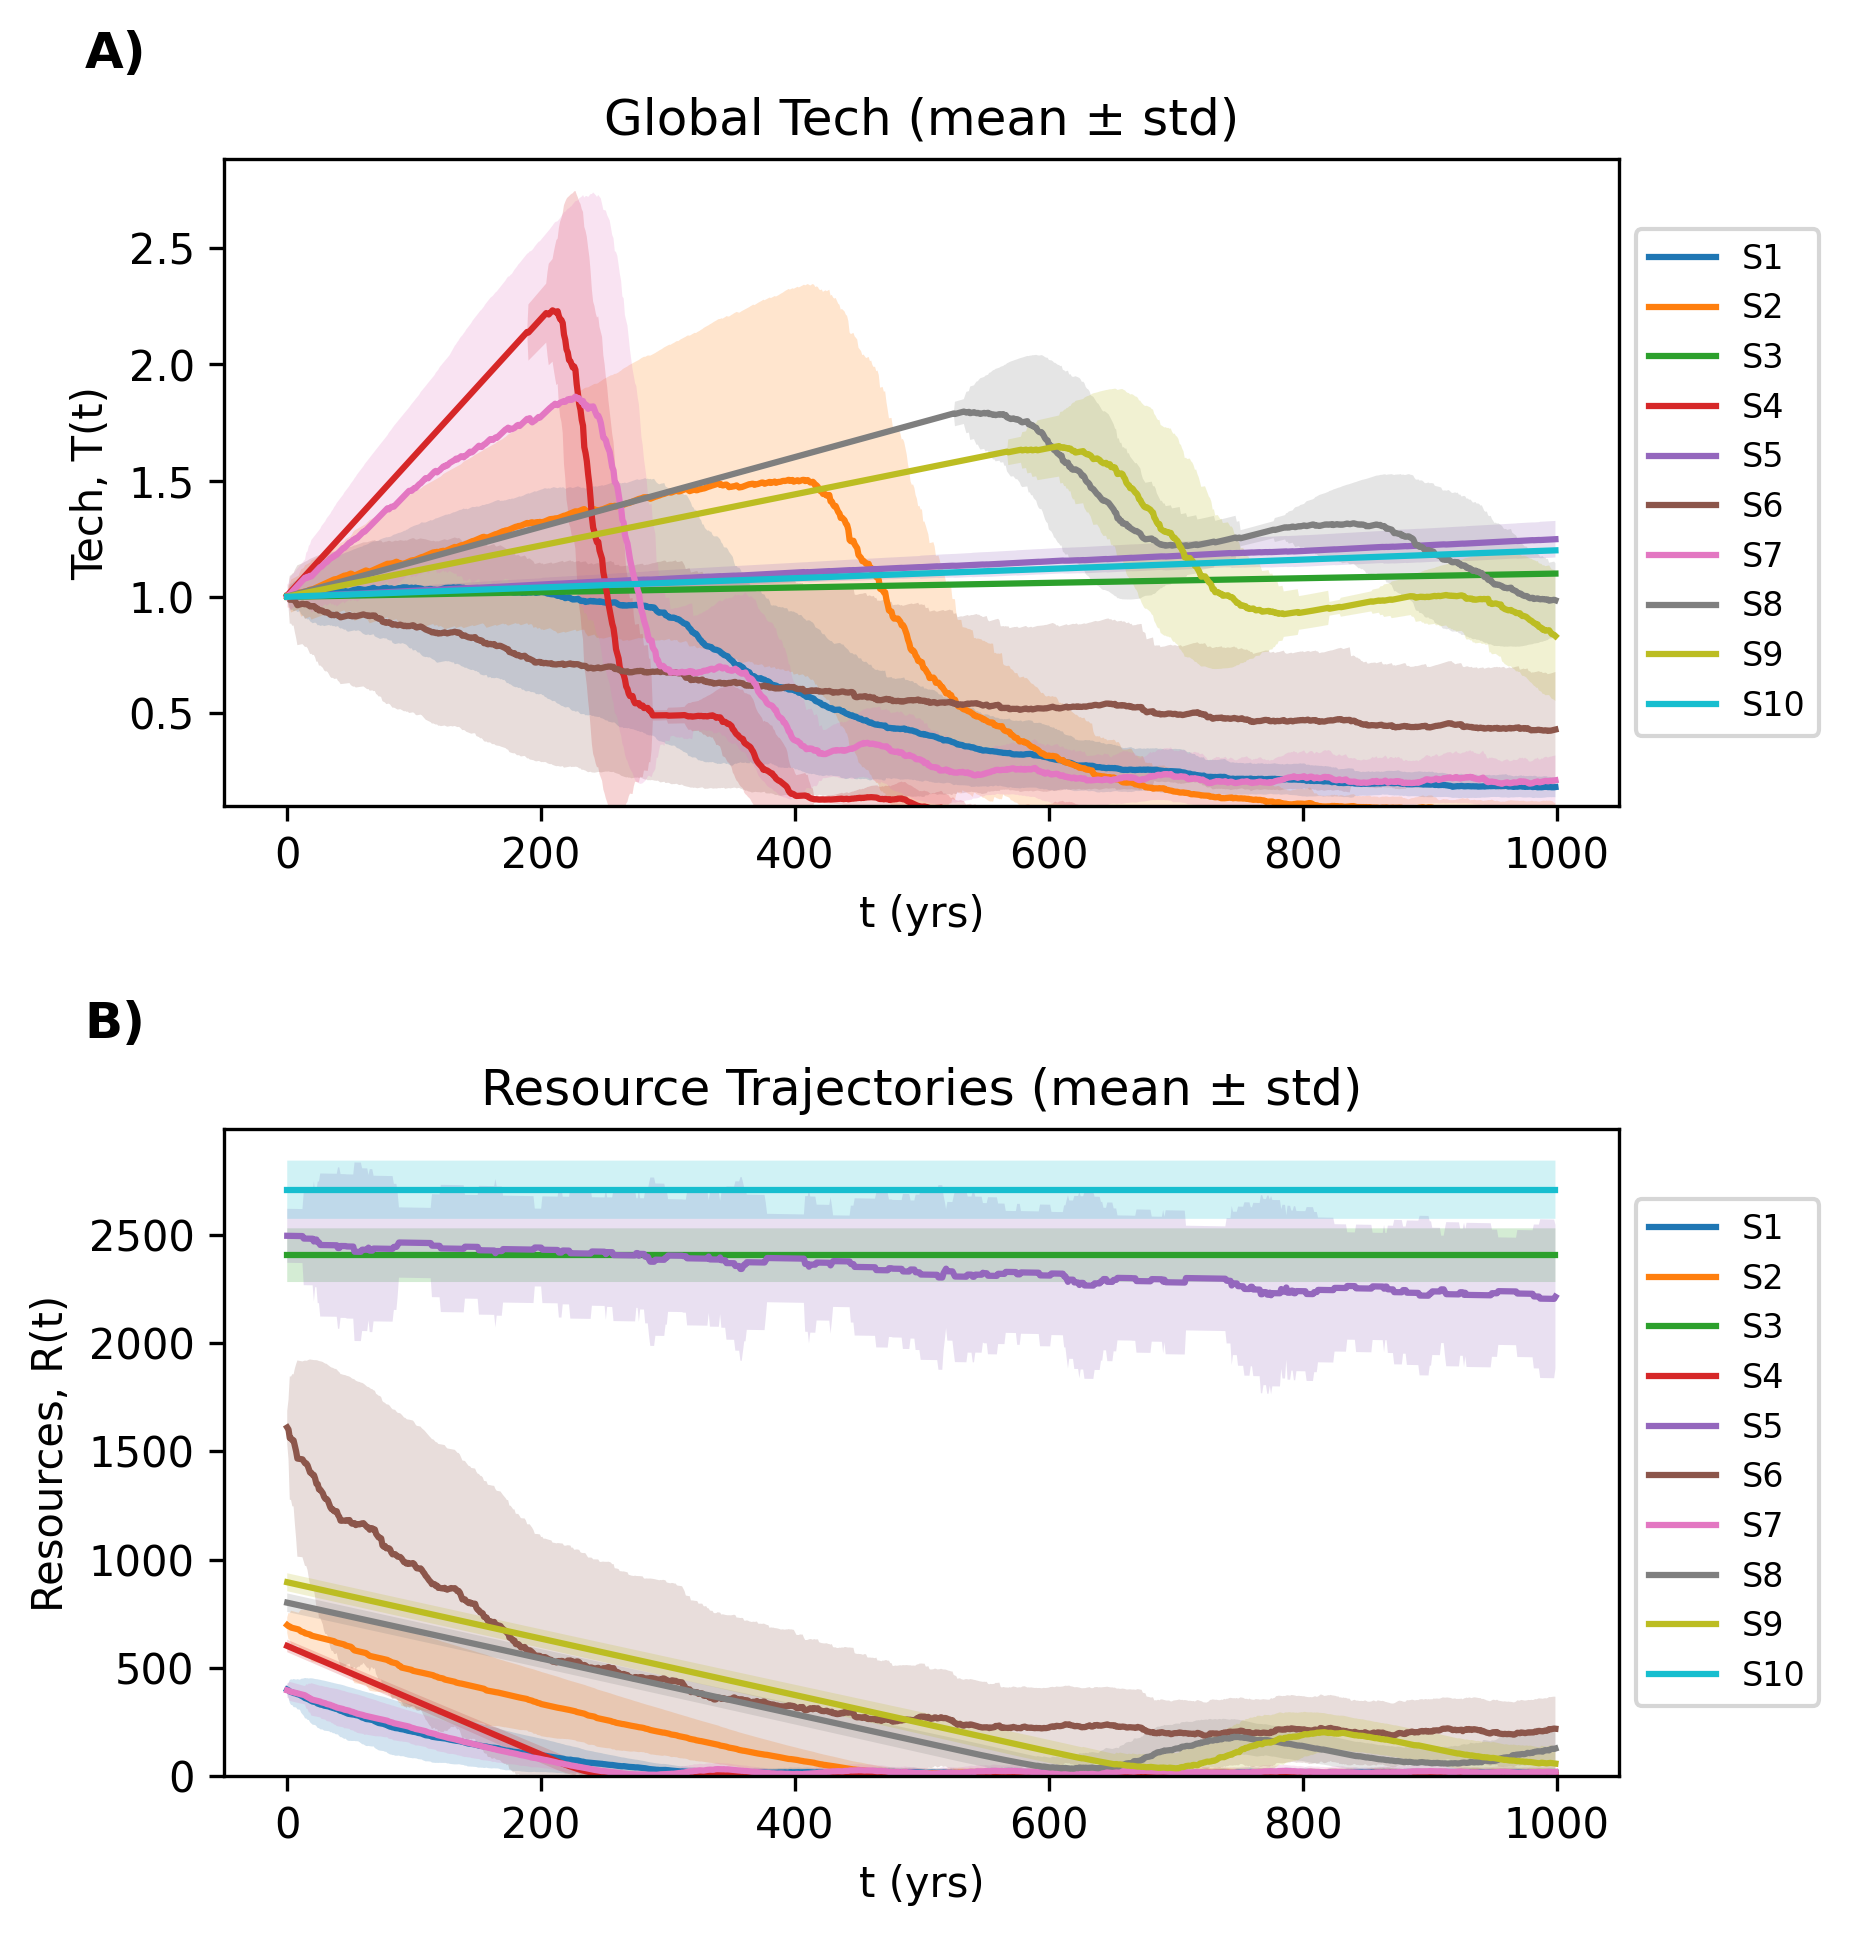
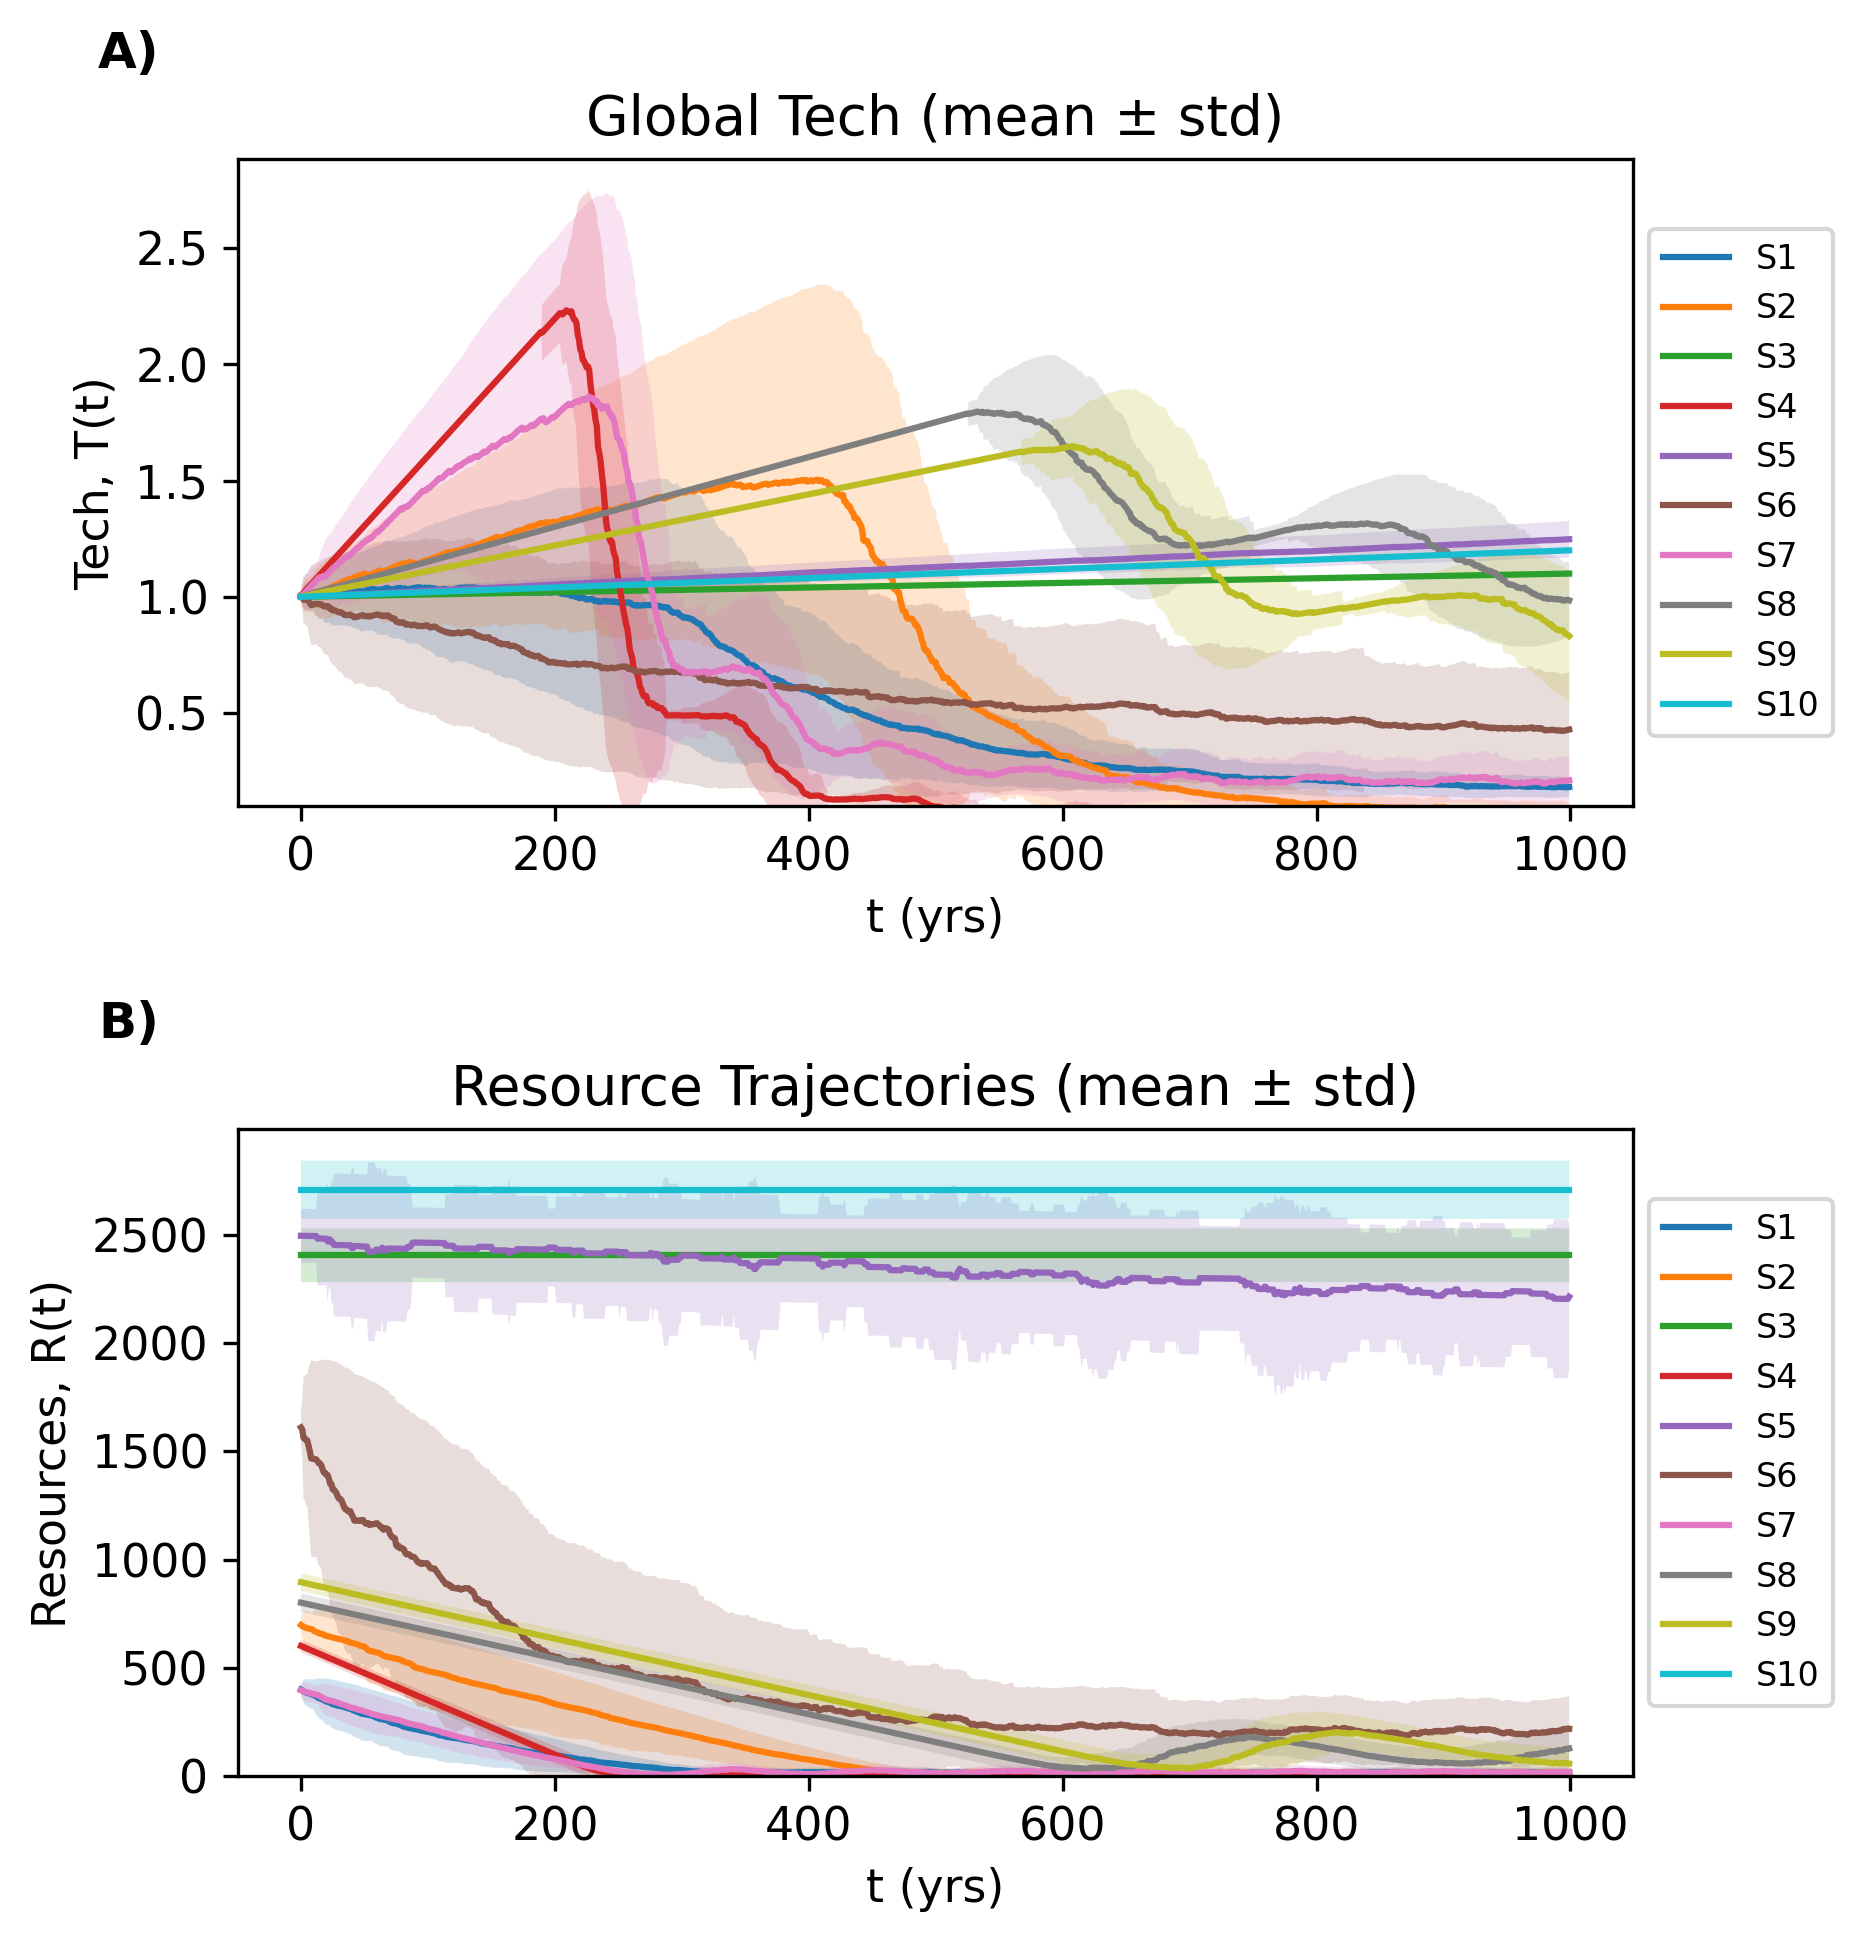
minor edits

diff --git a/tex/sections/methods.tex b/tex/sections/methods.tex
@@ -10,9 +10,7 @@ We developed a hybrid deterministic-stochastic model to simulate the long-term b
 
 Following collapse, the system enters a dormant recovery period of duration \(r_{d}\). During this phase, the society is unable to grow or consume resources, reflecting a temporary halt in technological and economic activity. This delay allows time for institutional reorganization, population stabilization, or environmental recovery. Once the recovery period concludes, the resource stock is partially replenished to a fraction \(r_{f}\) of its original value \(R_{0}\). This recovery fraction represents retained infrastructure, stored reserves, or ecological regeneration. A full recovery (\(r_{f} \approx 1\)) implies robust contingency planning and strong institutional memory, while lower values indicate more severe losses and diminished rebuilding capacity. This cycle of growth, collapse, dormancy, and recovery can repeat multiple times during the simulation window, depending on the fragility of the system, the frequency of stochastic hazards, and the depletion rate of resources.
 
-Formally, let the initial conditions be \(T_{0} = 1\), and \(R_{0} \in {\mathbb{R}}_{+}\ \), and define the indicator function as \(\chi(t) \in \{ 0,1\}\), with \(\chi(t) = 1\) if the system is active (not collapsed or recovering) at time \(t\), and \(\chi(t) = 0\)otherwise. The update rules for each time step are:
-
-The update rules for each time step are given by
+Formally, let the initial conditions be \(T_{0} = 1\), and \(R_{0} \in {\mathbb{R}}_{+}\ \), and define the indicator function as \(\chi(t) \in \{ 0,1\}\), with \(\chi(t) = 1\) if the system is active (not collapsed or recovering) at time \(t\), and \(\chi(t) = 0\) otherwise. The update rules for each time step are given by
 \begin{equation}
 \begin{aligned}
 T_{t+1} &= \chi_t \left( T_t + r \right) + \left(1 - \chi_t\right) T_t ,\\
@@ -66,7 +64,7 @@ Scarcity + Rule by Few + Hierarchical \newline Cluster 6 (Earth 2024) &
 Deregulated, competitive, and fragmented society \\
 
 S3: Golden Age &
-Non-scarcity + Rule by All + Distributed \newline Cluster 6 (Earth 2024) &
+Non-scarcity + Rule by All + Distributed \newline Cluster 6 (Earth 2024)$^{\dagger}$ &
 Stable egalitarian society with abundant resources \\
 
 S4: Living with the Land &
@@ -82,7 +80,7 @@ Scarcity + Rule by Few + Hierarchical \newline Cluster 4 (Engineering) &
 High-tech and high-risk system with cascading failure potential \\
 
 S7: Restoration &
-Non-scarcity + Rule by All + Distributed \newline Cluster 3 (Sustainability) &
+Non-scarcity$^{\ddagger}$ + Rule by All + Distributed \newline Cluster 3 (Sustainability) &
 Recovered post-collapse world with resilience \\
 
 S8: Ouroboros &
@@ -99,6 +97,10 @@ Harmonized coexistence with nature and machines \\
 \bottomrule
 \end{tabular}
 }
+
+\smallskip
+{\footnotesize $^{\dagger}$Cluster assignments follow \citet{Haqq-Misra2025-rt}; S3 shares the Earth~2024 technology cluster with S1 and S2 despite differing in global factors.\\
+$^{\ddagger}$S7 is tagged non-scarcity in the original framework but parameterized with scarcity-level resource pressure to model post-collapse recovery (see text).}
 \end{table*}
 
 % \begin{sidewaystable*}[p]
@@ -164,6 +166,7 @@ We assume that governance structure influences how technological civilizations r
 
 \textcolor{red}{The Ouroboros scenario (S8) is treated differently. In the original framework, S8 is described as a civilization that repeatedly undergoes expansion, collapse, and regrowth, with the year 3000 situated partway through an ongoing recovery phase. Rather than imposing externally timed or periodic collapse events, we model this behavior as an emergent dynamical regime. Specifically, S8 is assigned moderate technological growth, partial technological survival during collapse, and a relatively high recovery fraction of planetary resources. This combination allows repeated collapse--recovery cycles to arise endogenously from the interaction between resource depletion and rebuilding, and permits exploration of whether oscillatory behavior remains stable or dampens over long timescales.}
 
+Similarly, Deus Ex Machina (S9) is tagged as non-scarcity in the original framework but is parameterized with moderate resource pressure ($R_0 = 900$, $\delta = 1.3$) to reflect the high extraction demands of its aggressive technological expansion program, which drives resource depletion despite the scenario's nominally post-scarcity classification.
 
 \begin{table}[htbp]
 \centering
@@ -174,10 +177,13 @@ We assume that governance structure influences how technological civilizations r
 Governance Type & Collapse Depth $c_f$ & Recovery Delay $r_d$ & Recovery Fraction $r_f$ \\
 \midrule
 Rule by One & 0.5--0.7 & 40--60 & 0.10--0.20 \\
-Rule by Few & 0.3--0.6 & 50--70 & 0.10--\textcolor{red}{0.35} \\
-Rule by All & 0.3--0.9 & 20--40 & 0.20--0.90 \\
+Rule by Few & 0.2--0.6 & 50--100 & 0.10--0.35 \\
+Rule by All$^{*}$ & 0.3--1.0 & 0--70 & 0.20--1.0 \\
 \bottomrule
 \end{tabular}
+
+\smallskip
+{\footnotesize $^{*}$Post-scarcity idealizations (S3, S10) use $c_f = 1.0$, $r_d = 0$, $r_f = 1.0$, reflecting no-collapse conditions. S7 and S9 use parameters outside the typical governance range as narrative exceptions (see text).}
 \end{table}
 
 Scenarios also differ fundamentally in their assumptions about planetary resource conditions. Rather than define scarcity solely in terms of starting resources, we interpret it as a function of resource pressure (i.e., how quickly a civilization depletes its reserves). That is, systems with a large initial stock may still experience scarcity if it depletes resources at a high rate (e.g., S6). Conversely, a civilization with a modest stock may persist through repeated collapse--recovery cycles if post-collapse resource recovery partially replenishes its base (e.g., S8, S9), or may rebuild following an earlier systemic failure (e.g., S7).
@@ -199,7 +205,7 @@ Low & $\geq 1200$ & 0.0--0.5 & S3, S5, S10 \\
 
 We implement Monte Carlo simulations to explore how uncertainty in model parameters shapes the long-term behavior of each scenario. Each scenario's baseline values (Table~\ref{tab:params}) are perturbed using probabilistic variation to capture plausible uncertainty (Table~\ref{tab:uncertainty}). Initial resource stock (\(R_{0}\)) and depletion rate (\(\delta\)) are sampled from normal distributions with modest standard deviations to represent uncertainty in ecological baselines and consumption patterns. Collapse depth (\(c_{f}\)) and recovery fraction (\(r_{f}\)) are sampled using triangular distributions centered on scenario-specific values, allowing outcomes to concentrate near expected levels while still capturing asymmetries in resilience and recovery capacity. Recovery delay (\(r_{d}\)) is sampled from a normal distribution with a standard deviation of $\pm 10$ years, reflecting variability in rebuilding pace across different societal structures.
 
-The existential hazard rate (\(h\)) is held fixed for each scenario because it encodes an assumed background level of external risk (such as AI misalignment, interstellar conflict, or catastrophic environmental feedbacks) rather than internal system dynamics. Unlike other parameters whose variability arises from structural or operational uncertainty, \(h\) reflects a narrative-level judgment about a civilization's exposure to exogenous threats. Scenarios characterized by unstable geopolitical contexts, risky technological dependencies, or unresolved existential challenges (e.g., S6, S7, S9) are assigned higher hazard rates to reflect this vulnerability. In contrast, scenarios with societal stability, low-impact lifestyles, or resilient infrastructure (e.g., S3, S4, S10) are assigned zero or near-zero hazard rates. Keeping \(h\) fixed rather than sampling it probabilistically allows for clearer attribution of collapse outcomes to either endogenous fragility or exogenous shocks, rather than conflating the two.
+The existential hazard rate (\(h\)) is held fixed for each scenario because it encodes an assumed background level of external risk (such as AI misalignment, interstellar conflict, or catastrophic environmental feedbacks) rather than internal system dynamics. Unlike other parameters whose variability arises from structural or operational uncertainty, \(h\) reflects a narrative-level judgment about a civilization's exposure to exogenous threats. Scenarios characterized by unstable geopolitical contexts, risky technological dependencies, or unresolved existential challenges (e.g., S1, S6, S7) are assigned higher hazard rates to reflect this vulnerability, while S5 carries a small residual risk due to high systemic complexity. In contrast, scenarios with societal stability, low-impact lifestyles, or resilient infrastructure (e.g., S3, S4, S8, S9, S10) are assigned zero or near-zero hazard rates. Keeping \(h\) fixed rather than sampling it probabilistically allows for clearer attribution of collapse outcomes to either endogenous fragility or exogenous shocks, rather than conflating the two.
 
 \begin{table*}[htbp]
 \centering

diff --git a/tex/sections/results.tex b/tex/sections/results.tex
@@ -2,9 +2,9 @@
 
 \subsection{Monte Carlo Outcomes and Temporal Profiles}\label{monte-carlo-outcomes-and-temporal-profiles}
 
-We ran 200 independent simulations for each scenario, introducing probabilistic variation in model parameters as described in Section~\ref{model-description}. Figure~\ref{fig:trajectories} shows the resulting trajectories of global technology \(T(t)\) and available resources \(R(t)\), averaged across runs. These profiles reveal the distinct collapse and recovery dynamics that characterize each scenario. As expected, Golden Age (S3) and Out of Eden (S10) show uninterrupted growth and resource stability throughout the 1000-year window, consistent with their post-scarcity narratives and reflected in perfect duty cycles (\(\overline{D}_c = 1.0\)) and no collapse events (\(\overline{N}_c = 0\)). In stark contrast, scenarios such as Big Brother (S1) and Sword of Damocles (S6) suffer early collapses (\(\overline{T}_c < 210\)) and high collapse frequency (\(\overline{N}_c > 4\)), leading to sharp contractions in technological capacity and prolonged periods of inactivity. Deus Ex Machina (S9), although collapsing later (\(\overline{T}_c \approx 689\)), also experiences multiple interruptions and never recovers full continuity, with only modest duty cycle (\(\overline{D}_c \approx 0.91\)) and about 1.5 collapse events on average.
+We ran 200 independent simulations for each scenario, introducing probabilistic variation in model parameters as described in Section~\ref{model-description}. Figure~\ref{fig:trajectories} shows the resulting trajectories of global technology \(T(t)\) and available resources \(R(t)\), averaged across runs. These profiles reveal the distinct collapse and recovery dynamics that characterize each scenario. As expected, Golden Age (S3) and Out of Eden (S10) show uninterrupted growth and resource stability throughout the 1000-year window, consistent with their post-scarcity narratives and reflected in perfect duty cycles (\(\overline{D}_c = 1.0\)) and no collapse events (\(\overline{N}_c = 0\)). In stark contrast, scenarios such as Big Brother (S1) and Sword of Damocles (S6) suffer early collapses (\(\overline{T}_c < 210\)) and high collapse frequency (\(\overline{N}_c \approx 4.5\) for S6 and nearly 10 for S1), leading to sharp contractions in technological capacity and prolonged periods of inactivity. Deus Ex Machina (S9), although collapsing later (\(\overline{T}_c \approx 689\)), also experiences multiple interruptions and never recovers full continuity, with only modest duty cycle (\(\overline{D}_c \approx 0.91\)) and about 1.5 collapse events on average.
 
-More complex dynamics emerge in intermediate cases. Transhumanism (S5) avoids collapse in over 63\% of runs and achieves a near-continuous duty cycle (\(\overline{D}_c \approx 0.99\)), albeit with slower growth and occasional extinction. Living with the Land (S4), in contrast, undergoes frequent and deep collapses (\(\overline{N}_c \approx 6.6\)), producing the lowest sustained activity among all non-terminal scenarios (\(\overline{D}_c \approx 0.38\)) despite a steep initial growth phase. Restoration (S7), designed as a post-collapse recovery regime, displays consistent rebuilding behavior: early collapses (\(\overline{T}_c \approx 223\)), followed by approximately 7.5 recovery cycles and moderate continuity (\(\overline{D}_c \approx 0.57\)). Ouroboros (S8) exhibits a distinct pattern of low-frequency, self-stabilizing oscillations: it collapses only twice on average, yet maintains robust technological levels and a high duty cycle (\(\overline{D}_c \approx 0.87\)), reflecting a regime that cycles gracefully without exhausting resources or triggering runaway collapse.
+More complex dynamics emerge in intermediate cases. Transhumanism (S5) avoids collapse in roughly two-thirds of runs and achieves a near-continuous duty cycle (\(\overline{D}_c \approx 0.99\)), albeit with slower growth and occasional extinction. Living with the Land (S4), in contrast, undergoes frequent and deep collapses (\(\overline{N}_c \approx 6.6\)), producing the lowest sustained activity among all non-terminal scenarios (\(\overline{D}_c \approx 0.38\)) despite a steep initial growth phase. Restoration (S7), designed as a post-collapse recovery regime, displays consistent rebuilding behavior: early collapses (\(\overline{T}_c \approx 223\)), followed by approximately 7.5 recovery cycles and moderate continuity (\(\overline{D}_c \approx 0.57\)). Ouroboros (S8) exhibits a distinct pattern of low-frequency, self-stabilizing oscillations: it collapses only twice on average, yet maintains robust technological levels and a high duty cycle (\(\overline{D}_c \approx 0.87\)), reflecting a regime that cycles gracefully without exhausting resources or triggering runaway collapse.
 
 \textcolor{red}{Because the S8 narrative implies repeated collapse--recovery cycles, we ask whether those oscillations are always transient or can be sustained; we probe this with a sweep over $r_f$ and $\delta$ (Figure~\ref{fig:s8sweep}). Panel~A shows deterministic technology trajectories for varying $r_f$ while holding all other S8 parameters at their baseline values. For low recovery fractions ($r_f \leq 0.15$), the system undergoes rapid, repeated collapse--recovery cycles (3 cycles within the 1000-year window), as the diminished resource base after each recovery is quickly exhausted. At intermediate values ($0.20 \leq r_f \leq 0.50$), the system sustains two collapse--recovery cycles with longer growth phases between collapses. At higher recovery fractions ($r_f = 0.60$), the first collapse is delayed significantly, and only a single cycle occurs within the simulation window. Panel~B maps the number of collapse cycles across the $(r_f, \delta)$ parameter space, revealing a clear regime boundary: high depletion rates combined with low recovery fractions produce the most frequent oscillations (up to 8 cycles), while low depletion and high recovery fractions suppress collapse entirely. The baseline S8 parameters (marked with a star) sit near the boundary between 2- and 3-cycle regimes, suggesting that modest shifts in resource recovery capacity could qualitatively alter the civilization's long-term trajectory. These results confirm that S8's oscillatory behavior is not universally stable and it depends sensitively on the balance between resource depletion and post-collapse recovery, with some parameter combinations producing sustained cycling and others leading to dampened or terminal collapse.}
 
@@ -50,7 +50,7 @@ L_{\mathrm{eff}} = D_c \, T_{\mathrm{span}} ,
 \end{equation}
 where \(D_{c}\) is the mean duty cycle (defined above as the fraction of time a civilization remains active) and \(T_{span}\) is the observation window (1000 years in our simulations). Some have also proposed a related refinement to Drake's equation in the form of a ``reappearance factor'' for planets, where civilizations can arise multiple times in succession \citep{Bhattacharya2011-qr}. For example, even if one technological society collapses after 10,000 years, life may persist on that planet and eventually give rise to a new intelligent species. This factor differs from duty cycle in that it counts sequential independent civilizations over geological timescales, whereas duty cycle refers to the active vs. inactive phases within a single civilization's lifespan.
 
-Among the ten scenarios, \(D_c\) spans a wide range in our simulations. In the most collapse-prone scenario, S4, $D_c$ was as low as 0.381, indicating these civilizations spend well over half of their time in a collapsed or dormant state. By contrast, scenarios S3 and S10 had \(D_c = 1.00\), never experiencing a collapse (continuous activity). Most scenarios fall somewhere in between. For example, S5 has a high \(D_c = 0.991\), whereas S2 reaches only \(D_c = 0.614\), reflecting prolonged instability. This variability in \(D_c\) has direct implications for the detectability of civilizations. Even if intelligent life is widespread, the duty cycle reduces the probability of intercepting a signal at a given moment. Civilizations may exist for millennia, but if they emit only intermittently, the chances of overlap with our own observational window shrink significantly.
+Among the ten scenarios, \(D_c\) spans a wide range in our simulations. In the most collapse-prone scenario, S4, $D_c$ was as low as 0.381, indicating these civilizations spend well over half of their time in a collapsed or dormant state. By contrast, scenarios S3 and S10 had \(D_c = 1.00\), never experiencing a collapse (continuous activity). Most scenarios fall somewhere in between. For example, S5 has a high \(D_c \approx 0.99\), whereas S2 reaches only \(D_c \approx 0.61\), reflecting prolonged instability. This variability in \(D_c\) has direct implications for the detectability of civilizations. Even if intelligent life is widespread, the duty cycle reduces the probability of intercepting a signal at a given moment. Civilizations may exist for millennia, but if they emit only intermittently, the chances of overlap with our own observational window shrink significantly.
 
 The simulation results also raise a deeper question about the distribution of civilizations in the galaxy: should we expect them to be uniform in character and behavior, or drawn from a more diverse ensemble of trajectories? A uniform distribution, where all civilizations resemble a stable high-duty scenario like S3, would imply a galaxy populated by long-lived, continuously emitting technospheres. Such a distribution would make the silence we observe profoundly puzzling. On the other hand, if the distribution is non-uniform, with most civilizations following fragile, collapse-prone paths (e.g., S1, S2, S6), then long-duty-cycle civilizations would be statistical outliers. In this case, silence becomes more plausible, not because civilizations are rare, but because most are quiet or transient for the vast majority of their lifespan.
 